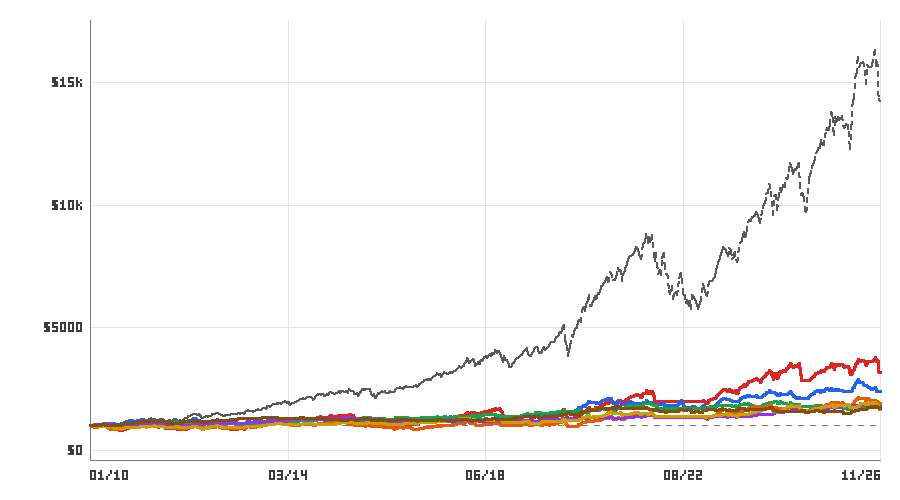
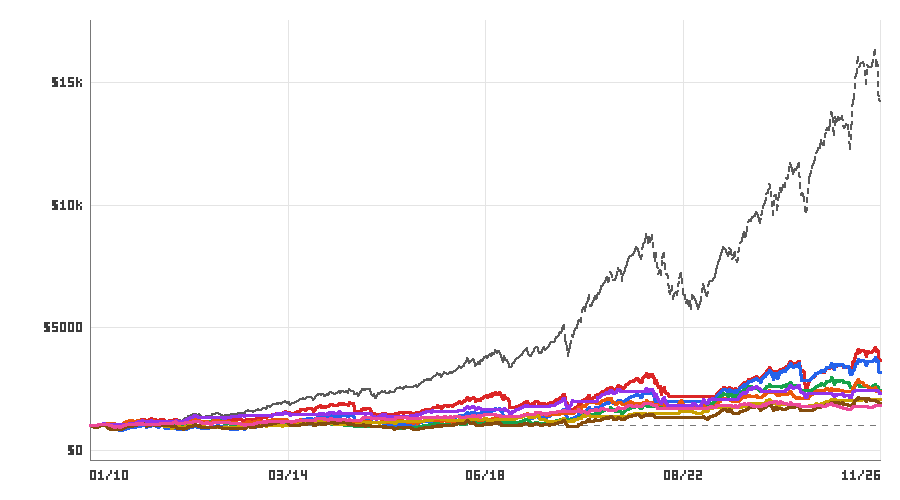
Nasdaq : 7 nouvelles stratégies testées depuis 1985, nouvelle sélection
- « Sell in May », RSI cumulé (Connors), Bollinger %b, volatilité basse, taux US en baisse,
  repli de 5 %, « Turnaround Tuesday » ; momentum 12 mois et plus haut annuel testés sur le Nasdaq
- Indicateurs : jour de semaine, RSI 2 cumulé, %b, plus haut 20 j, volatilité réalisée
- Taux 10 ans (^TNX) et dollar disponibles pour le Nasdaq en direct
- Sélection Nasdaq : mom12, sma200, lowvol, vixcalm, halloween, rates, tsmom, macd_long, sweep

Claude-Session: https://claude.ai/code/session_01YGVLtXe6qquQmH9vbw8VsU

Changed region(s): [[0.0933, 0.69, 0.9956, 0.87]]

diff --git a/src/strategies.js b/src/strategies.js
@@ -833,6 +833,7 @@ STRATEGIES.push(
   },
   {
     ...GOLD,
+    markets: ['gold', 'nas100'],
     id: 'mom12',
     name: 'Momentum 12 mois',
     desc: 'Momentum « absolu » classique (Antonacci) : investi tant que l’or a monté sur les 12 derniers mois, dehors sinon. Stop de protection 5 ATR.',
@@ -843,6 +844,7 @@ STRATEGIES.push(
   },
   {
     ...GOLD,
+    markets: ['gold', 'nas100'],
     id: 'high52',
     name: 'Nouveau plus haut annuel',
     desc: 'Maison : acheter quand l’or clôture à son plus haut de 52 semaines (les nouveaux sommets attirent les acheteurs), revendre à son plus bas de 50 jours. Stop suiveur 4 ATR.',
@@ -852,6 +854,122 @@ STRATEGIES.push(
     },
     trail(pos, ind, i) {
       return pos.best - 4 * ind.atr[i];
+    },
+  },
+);
+
+/* ------------------------------------------------------------------ */
+/* Lot Nasdaq 2 : saisonnalité, retours à la moyenne courts, régimes    */
+/* ------------------------------------------------------------------ */
+
+const NAS2 = { tf: '1d', markets: ['nas100'], warmup: 280 };
+
+STRATEGIES.push(
+  {
+    ...NAS2,
+    id: 'halloween',
+    name: '« Sell in May » (novembre → avril)',
+    desc: 'Effet Halloween (Bouman & Jacobsen 2002), observé sur la plupart des marchés actions depuis des décennies : investi de novembre à fin avril, dehors de mai à octobre. Stop de protection 5 ATR.',
+    evaluate(ind, i) {
+      const m = ind.month[i];
+      const on = m >= 11 || m <= 4;
+      return { entry: on ? 'long' : null, exitLong: !on, exitShort: true, sl: 5 * ind.atr[i], tp: null };
+    },
+  },
+  {
+    ...NAS2,
+    id: 'cumrsi',
+    name: 'RSI cumulé (Connors)',
+    desc: 'Larry Connors : au-dessus de la moyenne 200 jours, acheter quand la somme des RSI 2 des deux derniers jours passe sous 35 ; revendre quand le RSI 2 dépasse 65. Stop 3 ATR.',
+    evaluate(ind, i) {
+      const s = ind.rsi2sum[i];
+      return {
+        entry: s !== null && s < 35 && ind.closes[i] > ind.sma200[i] ? 'long' : null,
+        exitLong: ind.rsi2[i] > 65,
+        exitShort: true,
+        sl: 3 * ind.atr[i],
+        tp: null,
+      };
+    },
+  },
+  {
+    ...NAS2,
+    id: 'pctb',
+    name: 'Bollinger %b sous 0 dans la tendance',
+    desc: 'Retour à la moyenne : au-dessus de la moyenne 200 jours, acheter une clôture sous la bande de Bollinger basse (%b < 0) ; revendre au retour sur la moyenne 20 jours. Stop 3 ATR.',
+    evaluate(ind, i) {
+      const b = ind.pctB[i];
+      return {
+        entry: b !== null && b < 0 && ind.closes[i] > ind.sma200[i] ? 'long' : null,
+        exitLong: ind.closes[i] >= ind.bb.mid[i],
+        exitShort: true,
+        sl: 3 * ind.atr[i],
+        tp: null,
+      };
+    },
+  },
+  {
+    ...NAS2,
+    id: 'lowvol',
+    name: 'Régime de volatilité basse',
+    desc: 'Les krachs arrivent quand la volatilité explose : investi quand la volatilité des 20 derniers jours est sous sa moyenne d’un an ET l’indice au-dessus de sa moyenne 200 jours ; sortie si la volatilité dépasse de 10 % sa moyenne ou si l’indice passe 2 % sous sa moyenne 200. Stop 5 ATR.',
+    evaluate(ind, i) {
+      const v = ind.rv20[i];
+      const a = ind.rv20avg[i];
+      const c = ind.closes[i];
+      const ok = v !== null && a !== null;
+      return {
+        entry: ok && v < a && c > ind.sma200[i] ? 'long' : null,
+        exitLong: !ok || v > 1.1 * a || c < 0.98 * ind.sma200[i],
+        exitShort: true,
+        sl: 5 * ind.atr[i],
+        tp: null,
+      };
+    },
+  },
+  {
+    ...NAS2,
+    id: 'rates',
+    needsTnx: true,
+    name: 'Taux US en baisse',
+    desc: 'Les valeurs de croissance (tech) profitent de la baisse des taux : investi quand le taux 10 ans US est sous sa moyenne 50 jours ET le Nasdaq au-dessus de sa moyenne 50 jours ; sortie dès qu’une condition tombe. Stop 4 ATR.',
+    evaluate(ind, i) {
+      const c = ind.closes;
+      const on = (k) => belowAvg(ind.tnx, k) && c[k] > ind.sma50[k];
+      return { entry: became(on, i) ? 'long' : null, exitLong: !on(i), exitShort: true, sl: 4 * ind.atr[i], tp: null };
+    },
+  },
+  {
+    ...NAS2,
+    id: 'dip5',
+    name: 'Repli de 5 % dans la tendance',
+    desc: 'Maison : au-dessus de la moyenne 200 jours, acheter quand l’indice clôture 5 % sous son plus haut de 20 jours ; revendre quand il retrouve son plus haut de 20 jours. Stop 3 ATR.',
+    evaluate(ind, i) {
+      const c = ind.closes[i];
+      return {
+        entry: c <= 0.95 * ind.c20.max[i] && c > ind.sma200[i] ? 'long' : null,
+        exitLong: c >= ind.c20.max[i],
+        exitShort: true,
+        sl: 3 * ind.atr[i],
+        tp: null,
+      };
+    },
+  },
+  {
+    ...NAS2,
+    id: 'tuesday',
+    name: '« Turnaround Tuesday »',
+    desc: 'Effet de calendrier connu des traders : un lundi en baisse est souvent suivi d’un mardi en hausse. Achat à la clôture d’un lundi baissier (au-dessus de la moyenne 200 jours), revente à la clôture suivante. Stop 2 ATR.',
+    evaluate(ind, i) {
+      const c = ind.closes;
+      const monday = ind.weekday[i] === 1;
+      return {
+        entry: monday && c[i] < c[i - 1] && c[i] > ind.sma200[i] ? 'long' : null,
+        exitLong: !monday,
+        exitShort: true,
+        sl: 2 * ind.atr[i],
+        tp: null,
+      };
     },
   },
 );

diff --git a/src/indicators.js b/src/indicators.js
@@ -384,6 +384,22 @@ function rollingCloses(closes, n) {
   return { min, max };
 }
 
+/** Volatilité réalisée sur 20 bougies (écart-type des rendements) et sa moyenne sur 252 bougies. */
+function realizedVol(closes) {
+  const ret = closes.map((c, i) => (i ? Math.log(c / closes[i - 1]) : 0));
+  const rv20 = ret.map((_, i) => {
+    if (i < 20) return null;
+    let m = 0;
+    for (let j = i - 19; j <= i; j++) m += ret[j];
+    m /= 20;
+    let v = 0;
+    for (let j = i - 19; j <= i; j++) v += (ret[j] - m) ** 2;
+    return Math.sqrt(v / 19);
+  });
+  const avg = sma(rv20.map((x) => x ?? 0), 252).map((x, i) => (i >= 272 ? x : null));
+  return { rv20, rv20avg: avg };
+}
+
 /** Rendement sur n bougies (null au début). */
 function roc(closes, n) {
   return closes.map((c, i) => (i >= n ? c / closes[i - n] - 1 : null));
@@ -406,6 +422,11 @@ function computeAll(candles, daily = null, barSec = 3600, fx = null, vix = null,
     c50: rollingCloses(closes, 50),
     c252: rollingCloses(closes, 252),
     month: candles.map((c) => new Date(c.t * 1000).getUTCMonth() + 1),
+    weekday: candles.map((c) => new Date(c.t * 1000).getUTCDay()),
+    rsi2sum: (() => { const r = rsi(closes, 2); return r.map((v, i) => (i > 0 && v !== null && r[i - 1] !== null ? v + r[i - 1] : null)); })(),
+    pctB: closes.map((c, i) => (bb.upper[i] !== null && bb.upper[i] > bb.lower[i] ? (c - bb.lower[i]) / (bb.upper[i] - bb.lower[i]) : null)),
+    c20: rollingCloses(closes, 20),
+    ...realizedVol(closes),
     ema10: ema(closes, 10),
     ichi: ichimoku(candles),
     adx: adx(candles, 14),

diff --git a/src/markets.js b/src/markets.js
@@ -69,16 +69,19 @@ function nasMarket(cfg) {
     positionPct: cfg.nasPositionPct,
     feePct: cfg.nasFeePct,
     financingPct: cfg.nasFinancingPct,
-    async fetch(tfs, { needsVix } = {}) {
+    async fetch(tfs, { needsVix, needsTnx, needsDxy } = {}) {
       const needIntraday = tfs.some((tf) => tf === '1h' || tf === '6h');
-      const [m5, d1, h1, vix] = await Promise.all([
+      const yahoo = (key, sym) => cached(key, 3600, () => fetchYahoo(sym, '1d', { range: '2y', ...LIVE })).catch(() => null);
+      const [m5, d1, h1, vix, tnx, dxy] = await Promise.all([
         cached('ndx5m', 120, () => fetchYahoo('^NDX', '5m', { range: '5d', ...LIVE })),
         cached('ndx1d', 3600, () => fetchYahoo('^NDX', '1d', { range: '2y', ...LIVE })),
         needIntraday ? cached('ndx1h', 900, () => fetchYahoo('^NDX', '1h', { range: '730d', ...LIVE })) : null,
-        needsVix ? cached('vix1d', 3600, () => fetchYahoo('^VIX', '1d', { range: '2y', ...LIVE })).catch(() => null) : null,
+        needsVix ? yahoo('vix1d', '^VIX') : null,
+        needsTnx ? yahoo('tnx1d', '^TNX') : null,
+        needsDxy ? yahoo('dxy1d', 'DX-Y.NYB') : null,
       ]);
       const series = { '1d': d1, '1h': h1, '6h': h1 ? aggregate(h1, 21600) : null, '5m': m5 };
-      return { price: m5?.[m5.length - 1]?.c ?? d1?.[d1.length - 1]?.c, stops: m5, daily: d1, fx: null, vix, series };
+      return { price: m5?.[m5.length - 1]?.c ?? d1?.[d1.length - 1]?.c, stops: m5, daily: d1, fx: null, vix, aux: { tnx, dxy }, series };
     },
   };
 }

diff --git a/src/portfolio.js b/src/portfolio.js
@@ -60,8 +60,8 @@ async function loadHistory(marketId, cacheDir, fromYear = 2021) {
   if (marketId === 'nas100') {
     const { cachedYahoo } = require('./yahoo');
     const d = await cachedYahoo(cacheDir, '^NDX', '1d');
-    const vix = await cachedYahoo(cacheDir, '^VIX', '1d').catch(() => null);
-    return { '1d': d, daily: d, fx: null, vix, source: 'indice ^NDX, Yahoo Finance' };
+    const y = (s) => cachedYahoo(cacheDir, s, '1d').catch(() => null);
+    return { '1d': d, daily: d, fx: null, vix: await y('^VIX'), aux: { tnx: await y('^TNX'), dxy: await y('DX-Y.NYB') }, source: 'indice ^NDX, Yahoo Finance' };
   }
   const hourly = await loadHourly(cacheDir);
   const fx = aggregate(await loadHourly(cacheDir, { symbol: 'EURUSDT' }), TF_SEC['1d']);

diff --git a/src/config.js b/src/config.js
@@ -40,7 +40,7 @@ module.exports = {
   // Paper trading du Nasdaq 100 (indice ^NDX, Yahoo Finance) — CFD NAS100 simulé
   nasEnabled: num('NAS_TRADING', 1) === 1,
   // Retenues par le banc d'essai (npm run research -- nas100), en version achat seul + référence
-  nasStrategies: list('NAS_STRATEGIES', 'sma200,vixcalm,macd_long,tsmom,rsi2,double7,tom,sweep,hold'),
+  nasStrategies: list('NAS_STRATEGIES', 'mom12,sma200,lowvol,vixcalm,halloween,rates,tsmom,macd_long,sweep,hold'),
   nasStartCapital: num('NAS_START_CAPITAL', num('GOLD_START_CAPITAL', num('GOLD_SIZE_USD', 1000))),
   nasPositionPct: num('NAS_POSITION_PCT', 100),
   nasFeePct: num('NAS_FEE_PCT', 0.01),

diff --git a/research.js b/research.js
@@ -57,7 +57,8 @@ const MARKETS = {
       const daily = await cachedYahoo(CACHE, '^NDX', '1d');
       const hourly = await cachedYahoo(CACHE, 'NQ=F', '1h', { range: '730d' });
       const vix = await cachedYahoo(CACHE, '^VIX', '1d');
-      return { series: { '1h': hourly, '6h': aggregate(hourly, TF_SEC['6h']), '1d': daily }, daily, fx: null, vix };
+      const aux = { tnx: await cachedYahoo(CACHE, '^TNX', '1d'), dxy: await cachedYahoo(CACHE, 'DX-Y.NYB', '1d') };
+      return { series: { '1h': hourly, '6h': aggregate(hourly, TF_SEC['6h']), '1d': daily }, daily, fx: null, vix, aux };
     },
   },
 };

diff --git a/README.md b/README.md
@@ -125,21 +125,24 @@ Pour relancer : `npm run research` (frais 0,05 %), `npm run research -- 0.1` (fr
 
 Le bot trade aussi le **Nasdaq 100** en simulation, comme un CFD NAS100 :
 - Prix : **indice ^NDX** via Yahoo Finance (gratuit, sans clé, non officiel), bougies 5 min pour les stops.
-- Stratégies (retenues par le banc d'essai, **achat seul** : vendre le Nasdaq à découvert fait perdre sur le long terme) :
+- Stratégies (retenues par le banc d'essai : choix 1985–2009, vérification 2010–2026, **achat seul** car vendre le Nasdaq
+  à découvert fait perdre sur le long terme) — résultats 2010–2026 avec gains réinvestis :
 
-| Stratégie | Idée | 2010–2026 (CFD) | Sans financement |
+| Stratégie | Idée | CFD (financement 6 %/an) | Sans financement |
 |---|---|---|---|
-| **Filtre moyenne 200 jours** (`sma200`) | investi au-dessus de la moyenne 200 j (marge 2 %), dehors en dessous | **+7,0 %/an**, pire baisse −32 % | +11,3 %/an |
-| **Marché calme (VIX)** (`vixcalm`) | investi quand le VIX est sous sa moyenne 50 j et l'indice au-dessus de sa moyenne 50 | +5,3 %/an, −22 % | +9,0 %/an |
+| **Momentum 12 mois** (`mom12`) | investi tant que l'indice a monté sur 12 mois | **+8,0 %/an**, pire baisse −36 % | +12,3 %/an |
+| **Filtre moyenne 200 jours** (`sma200`) | investi au-dessus de la moyenne 200 j (marge 2 %) | +7,0 %/an, −32 % | +11,3 %/an |
+| **Volatilité basse** (`lowvol`) | volatilité 20 j sous sa moyenne d'un an + tendance haussière | +5,5 %/an, −31 % | +9,1 %/an |
+| **Marché calme (VIX)** (`vixcalm`) | VIX sous sa moyenne 50 j + indice au-dessus de sa moyenne 50 | +5,3 %/an, −22 % | +9,0 %/an |
+| **« Sell in May »** (`halloween`) | investi de novembre à avril (Bouman & Jacobsen 2002) | +5,1 %/an, −31 % | +8,0 %/an |
+| **Taux US en baisse** (`rates`) | taux 10 ans sous sa moyenne 50 j + indice au-dessus de sa moyenne 50 | +4,4 %/an, **−20 %** | +6,4 %/an |
 | Momentum de tendance (`tsmom`) | prix > moyenne 200 et hausse sur 3 mois | +3,9 %/an, −28 % | +8,2 %/an |
 | MACD + EMA 200, achat seul (`macd_long`) | croisement MACD dans le sens de l'EMA 200 | +3,6 %/an, −18 % | +5,8 %/an |
-| RSI 2 (`rsi2`) | racheter un repli très court dans la tendance | +3,4 %/an, −17 % | +4,2 %/an |
-| Effet de début de mois (`tom`) | acheté l'avant-dernier jour du mois, revendu au 3e jour du suivant | +3,1 %/an, −16 % | +4,3 %/an |
-| Double 7 (`double7`) | plus bas de 7 j au-dessus de la moyenne 200, revente au plus haut de 7 j | +3,1 %/an, −19 % | +5,0 %/an |
+| Chasse aux stops (`sweep`, intraday 5 min) | formation TradingView, stratégie C | à l'essai | |
 | *Référence : garder l'indice* | | *+17,0 %/an, −36 %* | |
 
-  Aussi disponibles (`NAS_STRATEGIES`) : `ibs` (IBS, +6,2 %/an mais non retenue sur la période de choix),
-  `down3` (3 jours de baisse), `vixspike` (pic de peur VIX), `ema_long`. Le VIX vient de Yahoo (`^VIX`).
+  Aussi disponibles (`NAS_STRATEGIES`) : `rsi2`, `cumrsi`, `double7`, `tom` (≈ +3 %/an), `high52`, `dip5`, `ibs`,
+  `down3`, `vixspike`, `ema_long`, et `tuesday` / `pctb` (≈ 0 %/an, non retenues). Données VIX et taux 10 ans : Yahoo.
 - Coûts : 0,01 % par côté **+ financement de nuit 6 %/an** (`NAS_FINANCING_PCT`) au prorata des jours en position.
 - Messages marqués 🇺🇸 sur le canal, bilan et graphique séparés ; commande `/nasdaq`, `/historique nasdaq 2010`.
 
@@ -150,7 +153,7 @@ Le bot trade aussi le **Nasdaq 100** en simulation, comme un CFD NAS100 :
 
 ⚠ **Sur le Nasdaq, garder l'indice reste devant toutes les stratégies** depuis 2010 (+17 %/an) : l'indice a été multiplié
 par 14, les stratégies ne sont en position qu'une partie du temps et paient le financement du CFD. La meilleure
-(filtre moyenne 200 jours) fait +7 %/an en CFD, +11 %/an sans financement, en évitant le cœur des krachs.
+(momentum 12 mois) fait +8 %/an en CFD, +12 %/an sans financement, en évitant une partie des krachs.
 Le paper trading les compare en direct à la référence.
 
 ### Intraday NAS100 (formation TradingView, module 5) — `npm run nas-intraday`
